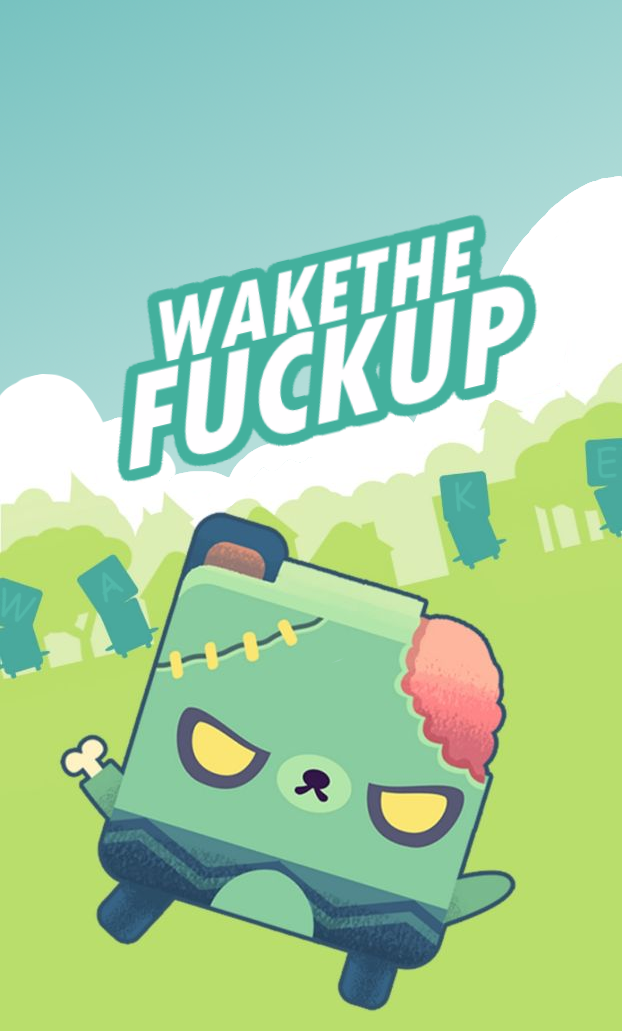
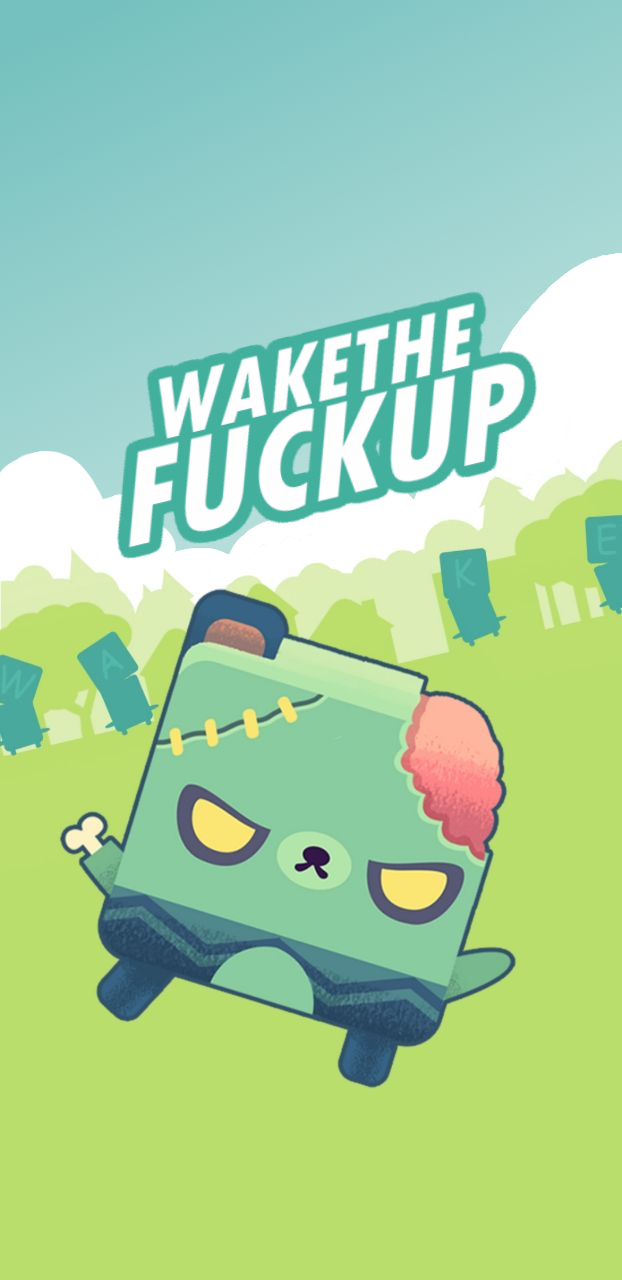
fix loading component not updating after authpopup

diff --git a/src/app/loading/loading.component.ts b/src/app/loading/loading.component.ts
@@ -10,8 +10,26 @@ export class LoadingComponent implements OnInit {
   constructor() { }
 
   @Input() message: string;
+  loop: boolean = true;
+  
   ngOnInit(): void {
-    console.log(this.message)
+    this.updateloop();
+  }
+
+  ngOnDestroy(): void{
+    this.loop = false;
+  }
+
+  // hacky fix for a bug, component not updating after exiting from authentication pop up.
+  async updateloop(){
+    while (this.loop) {
+      await this.Delay(100);
+      console.log("test");
+    }
+  }
+
+  async Delay(ms){
+    return new Promise( resolve => setTimeout(resolve, ms));
   }
 
 }

diff --git a/src/app/login/login.component.css b/src/app/login/login.component.css
@@ -9,15 +9,19 @@
 }
 
 .bg {
-    width: 100%;
+    max-width: 100%;
+    max-height: 100%;
     position: absolute;
+    left:50%;
+    transform: translate(-50%);
 }
 
 .nar {
+    max-width: 300px;
     width: 60vw;
     position: absolute;
     
-    left: 50%; top: 20vw;
+    left: 50%; top: 10%;
     transform: translateX(-50%);
     
 }
@@ -31,6 +35,8 @@
     transform: translate(-50%,-50%);
 
     width: 75%;
+
+    max-width: 400px;
 
     padding: 15px;
     border-radius: 10px;
